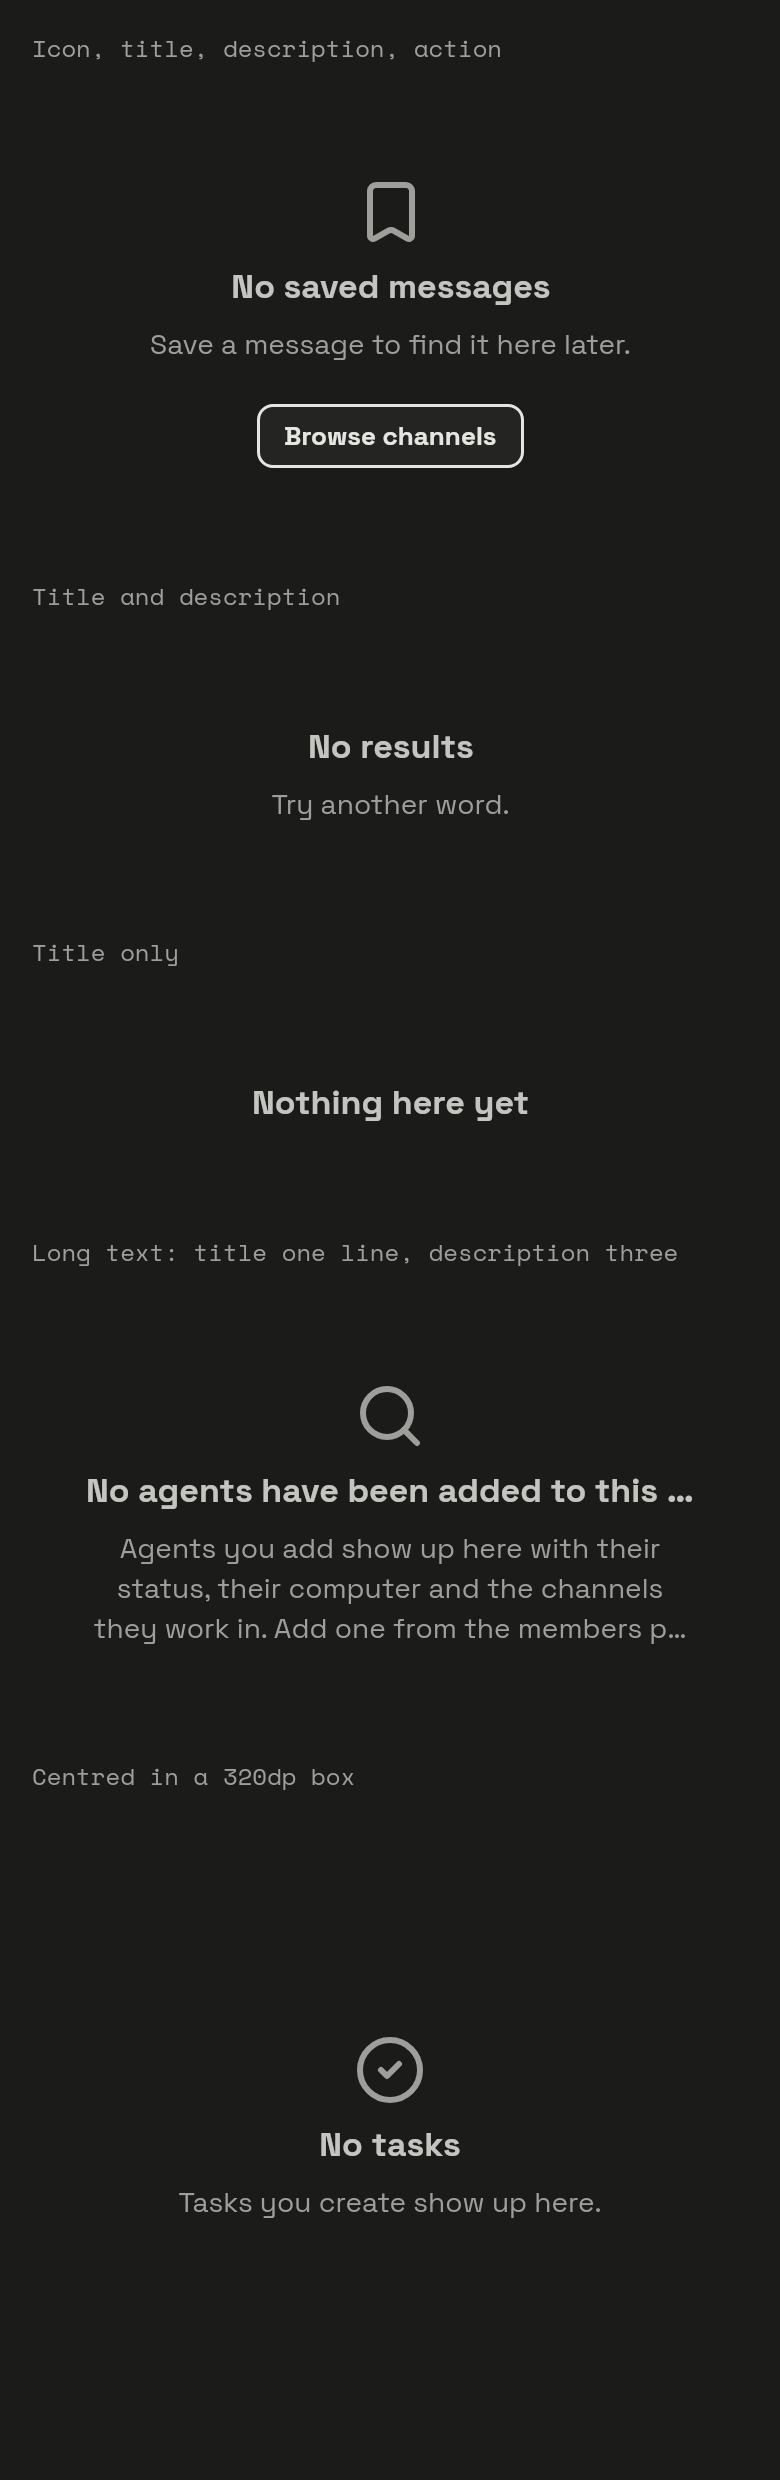
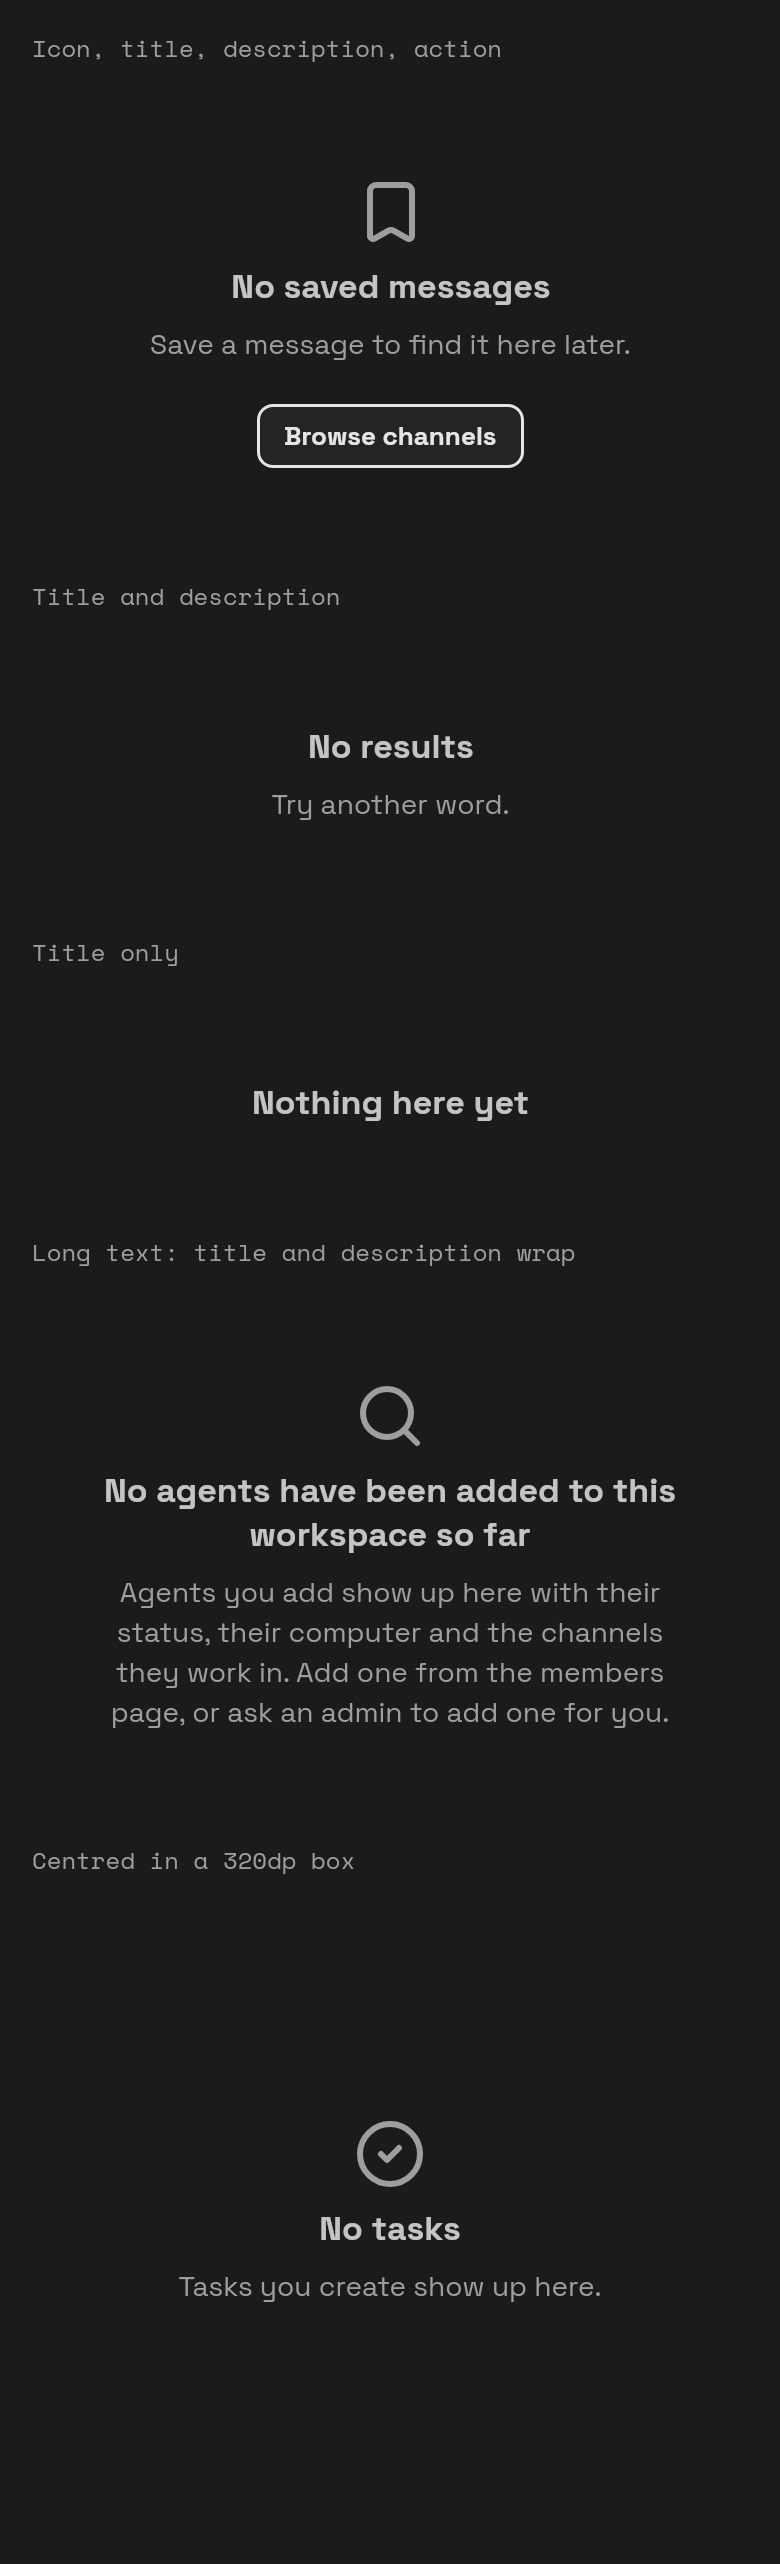
test(designsystem): re-record the EmptyState gallery

diff --git a/change-logs/1.28.0/changesets/empty-state-title-wraps.md b/change-logs/1.28.0/changesets/empty-state-title-wraps.md
@@ -5,7 +5,7 @@ platforms:
   - android
   - ios
   - desktop
-pull_request: TBD
+pull_request: 5215
 rollout: full
 ---
 
